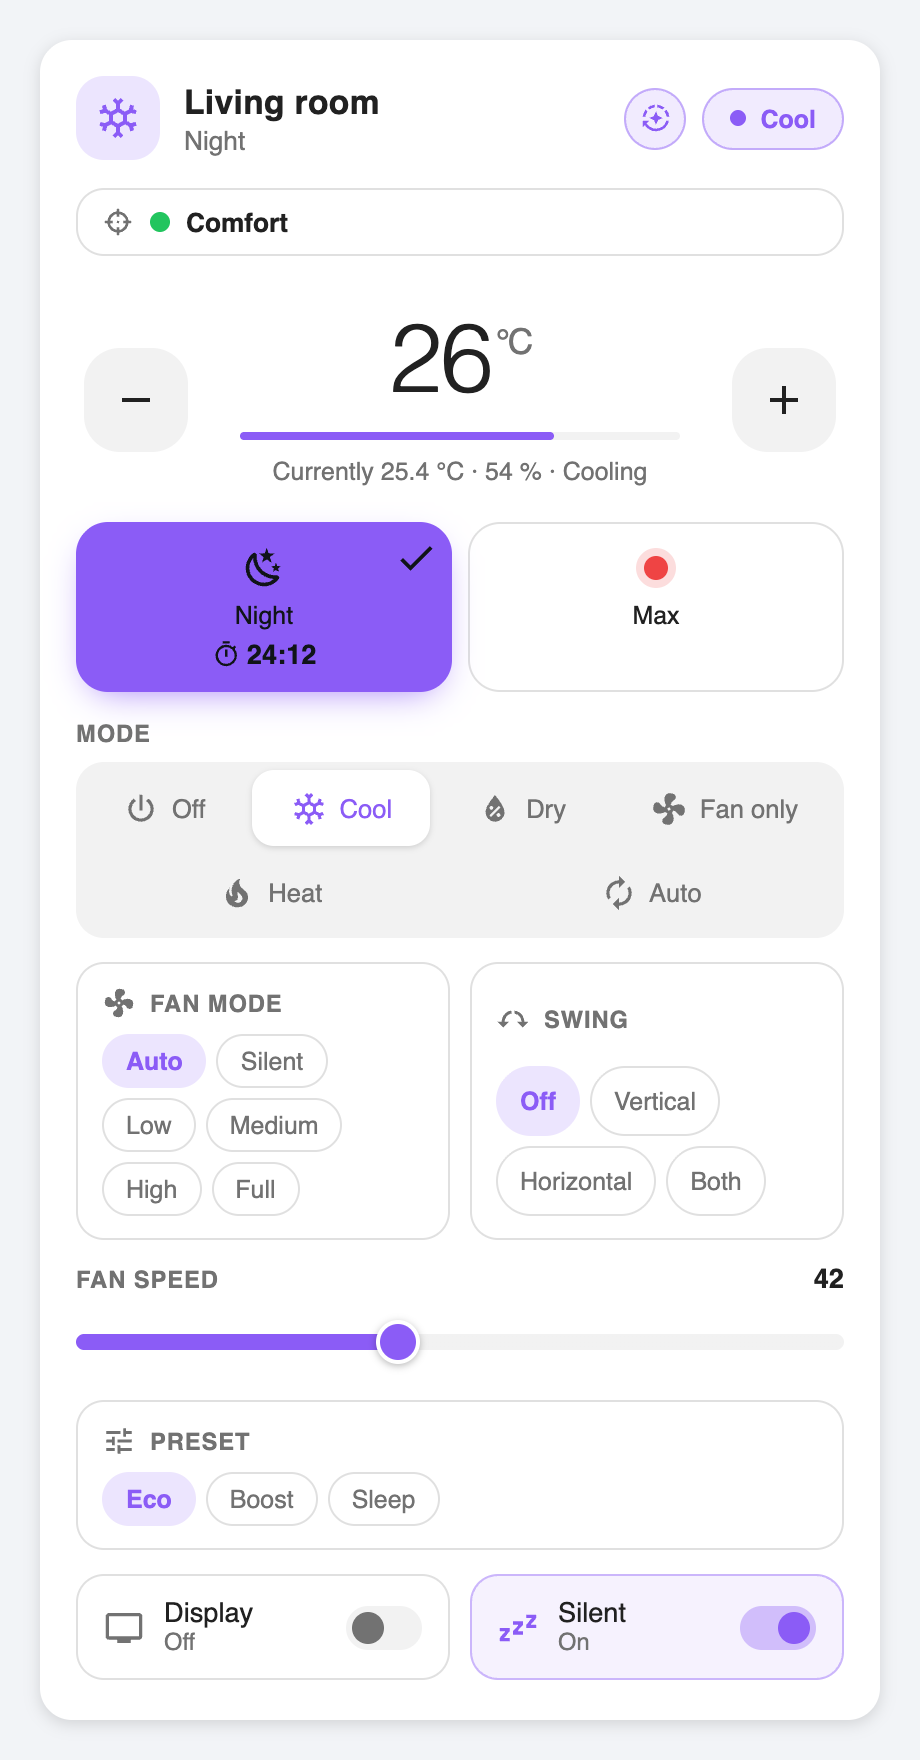
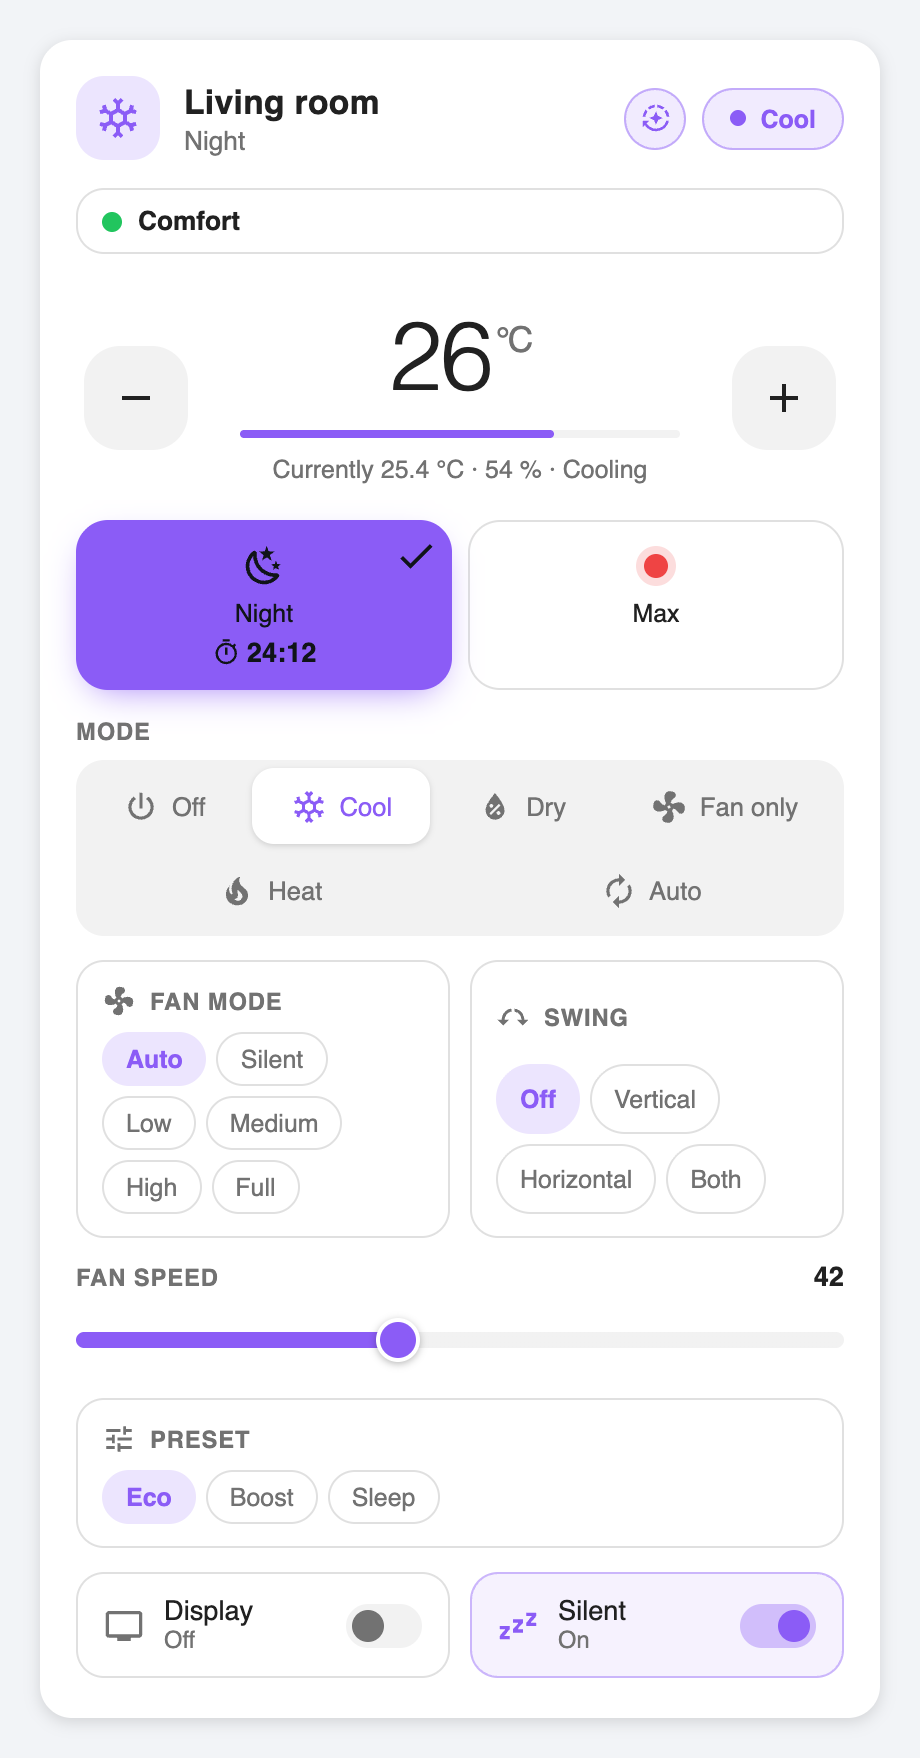
List only temporary profiles under automatic mode
The card still showed the profile automatic mode had chosen, as a disabled button, though nothing on it can be picked - it read like an offer, and the header already names what is on. The target row's crosshair icon added nothing to the profile's own mark. Custom goes for the same reason, and with no temporary profiles the list is left out instead of an empty box.

diff --git a/custom_components/climate_profiles/frontend/climate-profile-card.js b/custom_components/climate_profiles/frontend/climate-profile-card.js
@@ -366,13 +366,12 @@ class ClimateProfileCard extends HTMLElement {
 
   /**
    * Whether the active profile is one the card lists only while it is active:
-   * custom, which is a status and not a preset, or one automatic mode chose.
-   * A profile hidden from the card is not listed even then.
+   * custom, which is a status and not a preset - outside automatic mode. In
+   * automatic mode the list holds the temporary profiles and nothing else,
+   * and a profile hidden from the card is never in it.
    */
   _shownWhileActive(model) {
-    if (model.activeId === (model.custom.id || CUSTOM_ID)) return true;
-    const active = model.profiles.find((profile) => profile.id === model.activeId);
-    return Boolean(active && !active.hidden && !this._pickable(model, active));
+    return !model.autoOn && model.activeId === (model.custom.id || CUSTOM_ID);
   }
 
   /* ---- rendering ---- */
@@ -386,9 +385,9 @@ class ClimateProfileCard extends HTMLElement {
       return;
     }
 
-    // Custom and a profile automatic mode chose are in the list only while
-    // they are what the device is doing, so that coming and going changes
-    // what is built - the active profile itself is only painted.
+    // Custom is in the list only while it is what the device is doing, so
+    // that coming and going changes what is built - the active profile
+    // itself is only painted.
     const shownWhileActive = this._shownWhileActive(model) ? model.activeId : "";
     const signature = [
       model.profiles
@@ -512,7 +511,6 @@ class ClimateProfileCard extends HTMLElement {
         </header>
 
         <section class="target" role="status" hidden>
-          <ha-icon class="target-icon" icon="mdi:target"></ha-icon>
           <span class="target-mark"></span>
           <span class="target-name"></span>
         </section>
@@ -622,6 +620,8 @@ class ClimateProfileCard extends HTMLElement {
 
     if (layout === "dropdown") {
       this._buildProfileSelect(model, all);
+      // In automatic mode without temporary profiles there is nothing to list.
+      wrap.hidden = this._profilePicker.options.size === 0;
       return;
     }
 
@@ -633,19 +633,18 @@ class ClimateProfileCard extends HTMLElement {
       const isActive = profile.id === model.activeId;
       // Custom has no icon of its own, and a row of icons has no room for a
       // dashed box that says nothing: it joins only while it is what is on.
-      // In automatic mode it is no different from any other profile the
-      // card does not offer.
-      const always = profile.virtual && !iconsOnly && !model.autoOn;
-      // What automatic mode chose is not offered, but still there while it
-      // is on: the card does not pretend the device is doing something else.
-      if (!pickable && !isActive && !always) continue;
+      // In automatic mode the list is the temporary profiles alone - what
+      // the sensor chose is in the header and the target row.
+      if (!pickable) {
+        if (!profile.virtual || model.autoOn) continue;
+        if (iconsOnly && !isActive) continue;
+      }
       const button = document.createElement("button");
       button.type = "button";
       button.className = iconsOnly ? "profile icon-only" : "profile";
       button.dataset.id = profile.id;
       if (!pickable) button.classList.add("fixed");
       if (profile.virtual) button.classList.add("virtual");
-      if (!profile.virtual && !pickable) button.classList.add("chosen");
       const [r, g, b] = hexToRgb(profile.color);
       button.style.setProperty("--profile-rgb", `${r}, ${g}, ${b}`);
       button.style.setProperty("--profile-color", profile.color);
@@ -681,9 +680,6 @@ class ClimateProfileCard extends HTMLElement {
             "Shown when the current state matches none of your profiles."
           );
         }
-      } else if (!pickable) {
-        button.disabled = true;
-        if (!iconsOnly) button.title = this._t("Chosen by automatic mode.");
       } else {
         button.addEventListener("click", () => this._tapProfile(profile));
       }
@@ -691,6 +687,8 @@ class ClimateProfileCard extends HTMLElement {
       wrap.appendChild(button);
       this._profileButtons.set(profile.id, button);
     }
+    // In automatic mode without temporary profiles there is nothing to list.
+    wrap.hidden = this._profileButtons.size === 0;
   }
 
   /**
@@ -726,17 +724,20 @@ class ClimateProfileCard extends HTMLElement {
     const options = new Map();
     for (const profile of all) {
       // Custom is a status, not something to pick: it is in the list while it
-      // is what the device is doing, and cannot be chosen. One automatic mode
-      // chose is treated the same way; a hidden one is not in the list at all.
+      // is what the device is doing, and cannot be chosen - outside automatic
+      // mode. In automatic mode the list is the temporary profiles alone, and
+      // a hidden profile is never in it.
       if (profile.hidden) continue;
       const onlyWhileActive = !this._pickable(model, profile);
-      if (onlyWhileActive && profile.id !== model.activeId) continue;
+      if (onlyWhileActive) {
+        if (!profile.virtual || model.autoOn) continue;
+        if (profile.id !== model.activeId) continue;
+      }
       const option = document.createElement("button");
       option.type = "button";
       option.className = "picker-option";
       option.setAttribute("role", "option");
       option.dataset.id = profile.id;
-      if (onlyWhileActive && !profile.virtual) option.classList.add("chosen");
       option.style.setProperty("--profile-color", profile.color);
       option.innerHTML = `
         ${profileMark(profile)}
@@ -1124,9 +1125,10 @@ class ClimateProfileCard extends HTMLElement {
         model.profiles.find((profile) => profile.id === model.activeId) ||
         model.custom;
       const { trigger, list, options } = this._profilePicker;
-      // A hidden profile is not named here either: the closed list says
-      // only that it is a list of profiles.
-      const shown = !active.hidden;
+      // A profile that is not in the list - hidden, or chosen by automatic
+      // mode - is not named here either: the closed list says only that it
+      // is a list of profiles.
+      const shown = options.has(active.id);
       trigger.querySelector(".picker-name").textContent = shown
         ? active.name
         : this._t("Profiles");
@@ -1653,7 +1655,6 @@ const CARD_DE = {
   Temperature: "Temperatur",
   "Shown when the current state matches none of your profiles.":
     "Wird angezeigt, wenn der aktuelle Zustand zu keinem Profil passt.",
-  "Chosen by automatic mode.": "Von der Automatik gewählt.",
   "Automatic mode": "Automatik",
   "Automatic mode is off": "Automatik ist aus",
   "Automatic mode is on": "Automatik ist an",
@@ -1876,7 +1877,6 @@ ha-card.unavailable { opacity: 0.6; }
   font-size: 0.82rem;
   color: var(--cp-muted);
 }
-.target-icon { --mdc-icon-size: 16px; flex: none; }
 .target-mark { display: flex; flex: none; align-items: center; }
 .target-mark ha-icon { --mdc-icon-size: 16px; color: var(--profile-color); }
 .target-mark .dot-mark {
@@ -2034,6 +2034,9 @@ ha-card.unavailable { opacity: 0.6; }
 .dial .step { width: 46px; height: 46px; border-radius: 16px; }
 
 /* profiles */
+/* above every layout's own display, which would beat the attribute */
+.profiles[hidden],
+.profiles[hidden][data-layout] { display: none; }
 .profiles { display: grid; gap: 8px; }
 .profiles[data-layout="grid"] {
   grid-template-columns: repeat(auto-fit, minmax(96px, 1fr));
@@ -2106,7 +2109,7 @@ ha-card.unavailable { opacity: 0.6; }
   font-weight: 500;
 }
 .picker-trigger .picker-name { flex: 1; min-width: 0; }
-/* a hidden profile is on: the list is not named after it */
+/* the active profile is not in the list: the list is not named after it */
 .picker-trigger.none .picker-name { color: var(--cp-muted); }
 .picker-trigger.none .picker-mark { display: none; }
 .picker-countdown[hidden] { display: none; }
@@ -2262,16 +2265,6 @@ ha-card.unavailable { opacity: 0.6; }
   border-style: solid;
   color: var(--profile-contrast);
 }
-/* Chosen by automatic mode: disabled only so it cannot be picked here. It is
-   a real profile the device is running, not a status like custom, so it is
-   not faded the way every other disabled button is. */
-.profile.chosen,
-.picker-option.chosen:disabled {
-  opacity: 1;
-  color: var(--cp-text);
-  cursor: default;
-}
-.profile.chosen.active { color: var(--profile-contrast); }
 
 /* the time a temporary profile has left */
 .profile-countdown[hidden] { display: none; }

diff --git a/tests/test_card.py b/tests/test_card.py
@@ -769,11 +769,12 @@ async def test_the_target_is_shown_by_default(open_card):
     assert "problem" not in (await target.get_attribute("class"))
 
 
-async def test_the_target_is_only_the_profile_name(open_card):
-    """No "Target" label in front of it: the icon says what the row is."""
+async def test_the_target_is_only_the_profile(open_card):
+    """No "Target" label and no target icon: the profile's mark and name."""
     page = await open_card(AUTOMATIC)
     target = page.locator("climate-profile-card .target")
     assert (await target.inner_text()).strip() == "Comfort"
+    assert await target.locator("ha-icon[icon='mdi:target']").count() == 0
 
 
 async def test_the_target_is_left_out_while_automatic_mode_is_off(open_card):
@@ -823,12 +824,10 @@ async def test_automatic_mode_offers_only_temporary_profiles(open_card, layout):
     for profile_id in ("p5", "p6"):
         button = card.locator(f".profile[data-id='{profile_id}']")
         assert await button.is_enabled(), profile_id
-    # What automatic mode chose is shown, not offered.
-    comfort = card.locator(".profile[data-id='p3']")
-    assert await comfort.is_disabled()
-    assert "active" in (await comfort.get_attribute("class"))
-    for profile_id in ("p1", "p2", "p4", "p7", "__custom__"):
+    # What automatic mode chose is not in the list either, though it is on.
+    for profile_id in ("p1", "p2", "p3", "p4", "p7", "__custom__"):
         assert await card.locator(f".profile[data-id='{profile_id}']").count() == 0
+    assert await card.locator(".profile.active").count() == 0
 
 
 async def test_automatic_mode_offers_only_temporary_profiles_in_the_list(open_card):
@@ -836,12 +835,47 @@ async def test_automatic_mode_offers_only_temporary_profiles_in_the_list(open_ca
     card = page.locator("climate-profile-card")
     await card.locator(".picker-trigger").click()
 
-    offered = card.locator(".picker-option:not(:disabled)")
-    assert [await item.get_attribute("data-id") for item in await offered.all()] == [
+    listed = card.locator(".picker-option")
+    assert [await item.get_attribute("data-id") for item in await listed.all()] == [
         "p5",
         "p6",
     ]
-    assert await card.locator(".picker-option[data-id='p3']").is_disabled()
+    assert await listed.locator(":disabled").count() == 0
+    # The closed list is not named after what automatic mode chose.
+    trigger = card.locator(".picker-trigger")
+    assert await trigger.locator(".picker-name").inner_text() == "Profiles"
+
+
+@pytest.mark.parametrize("layout", ["grid", "icons", "dropdown"])
+async def test_automatic_mode_does_not_list_custom(open_card, layout):
+    state = {
+        **AUTOMATIC,
+        "active_profile": "Custom",
+        "active_profile_id": "__custom__",
+        "active_profile_color": "#78909c",
+    }
+    page = await open_card(state, card={"profile_layout": layout})
+    card = page.locator("climate-profile-card")
+    assert await card.locator("[data-id='__custom__']").count() == 0
+
+
+@pytest.mark.parametrize("layout", ["grid", "scroll", "icons", "dropdown"])
+async def test_without_temporary_profiles_automatic_mode_lists_nothing(
+    open_card, layout
+):
+    """No empty box where the profiles were."""
+    page = await open_card(
+        automatic_state(target="Comfort", target_id="h3"),
+        device="heating",
+        card={"profile_layout": layout},
+    )
+    card = page.locator("climate-profile-card")
+    assert await card.locator(".profiles").is_hidden()
+    assert await card.locator(".target-name").inner_text() == "Comfort"
+
+    await page.evaluate("setCardState({})")
+    await page.wait_for_timeout(100)
+    assert await card.locator(".profiles").is_visible(), "back with automatic mode off"
 
 
 async def test_a_temporary_profile_is_started_from_the_card(open_card):

diff --git a/tools/make_screenshots.py b/tools/make_screenshots.py
@@ -128,7 +128,7 @@ SHOTS: dict[str, dict] = {
     # Automatic mode on, with its switch and its target shown: the temporary
     # "Night" overrides the sensor for another 24 minutes, and "Comfort" - what
     # the sensor names - takes over afterwards. Only temporary profiles are
-    # offered. Without a profile sensor none of this is in any other picture.
+    # listed. Without a profile sensor none of this is in any other picture.
     "card-automatic": {
         "theme": "light",
         "card": {"show_automatic": True},

diff --git a/CHANGELOG.md b/CHANGELOG.md
@@ -38,10 +38,11 @@ versioning [Semantic Versioning](https://semver.org/).
   is none; `show_target: false` leaves it out.
   `show_automatic: true` adds a button left of the lock that flips the
   automatic mode switch, with a dot while it waits. While automatic mode is
-  on, only temporary profiles are offered, and whatever else is active is
-  shown without being pickable - unless it is hidden. A running temporary profile counts down in
-  its button - under the name, beside or below the icon, in the closed
-  dropdown - and a tap ends it. The time grows with the room the button has.
+  on, the card lists the temporary profiles and nothing else - not the
+  profile the sensor chose, not custom - and without temporary profiles it
+  leaves the list out. A running temporary profile counts down in its
+  button - under the name, beside or below the icon, in the closed dropdown -
+  and a tap ends it. The time grows with the room the button has.
 - **A write protected profile held by automatic mode cannot be changed.**
   `set_value` is refused, and the card turns display only - temperature,
   mode, power and every other control - so the state cannot slip to custom.

diff --git a/README.md b/README.md
@@ -273,10 +273,11 @@ unavailable. `show_target: false` leaves the row out.
 device's automatic mode switch: outlined while off, filled while on, with an
 orange dot while it waits for a profile it can follow.
 
-While automatic mode is on, the card offers only the
-[temporary profiles](#temporary-profiles). Whatever else is active - the
-profile the sensor chose, custom - is shown but cannot be picked; a hidden
-one stays hidden. Without temporary profiles that is the one button left. A running
+While automatic mode is on, the card lists the
+[temporary profiles](#temporary-profiles) and nothing else. The profile the
+sensor chose is not in the list, nor is custom - the header names what is on,
+and the target row what the sensor names. The closed dropdown reads
+"Profiles" then. Without temporary profiles the list is left out. A running
 temporary profile shows the time it has left: under its name in the grid and
 scroll layouts, next to the icon in `icons` - below it when the button is
 narrow - and in the closed field in `dropdown`. A tap on it ends it; in
